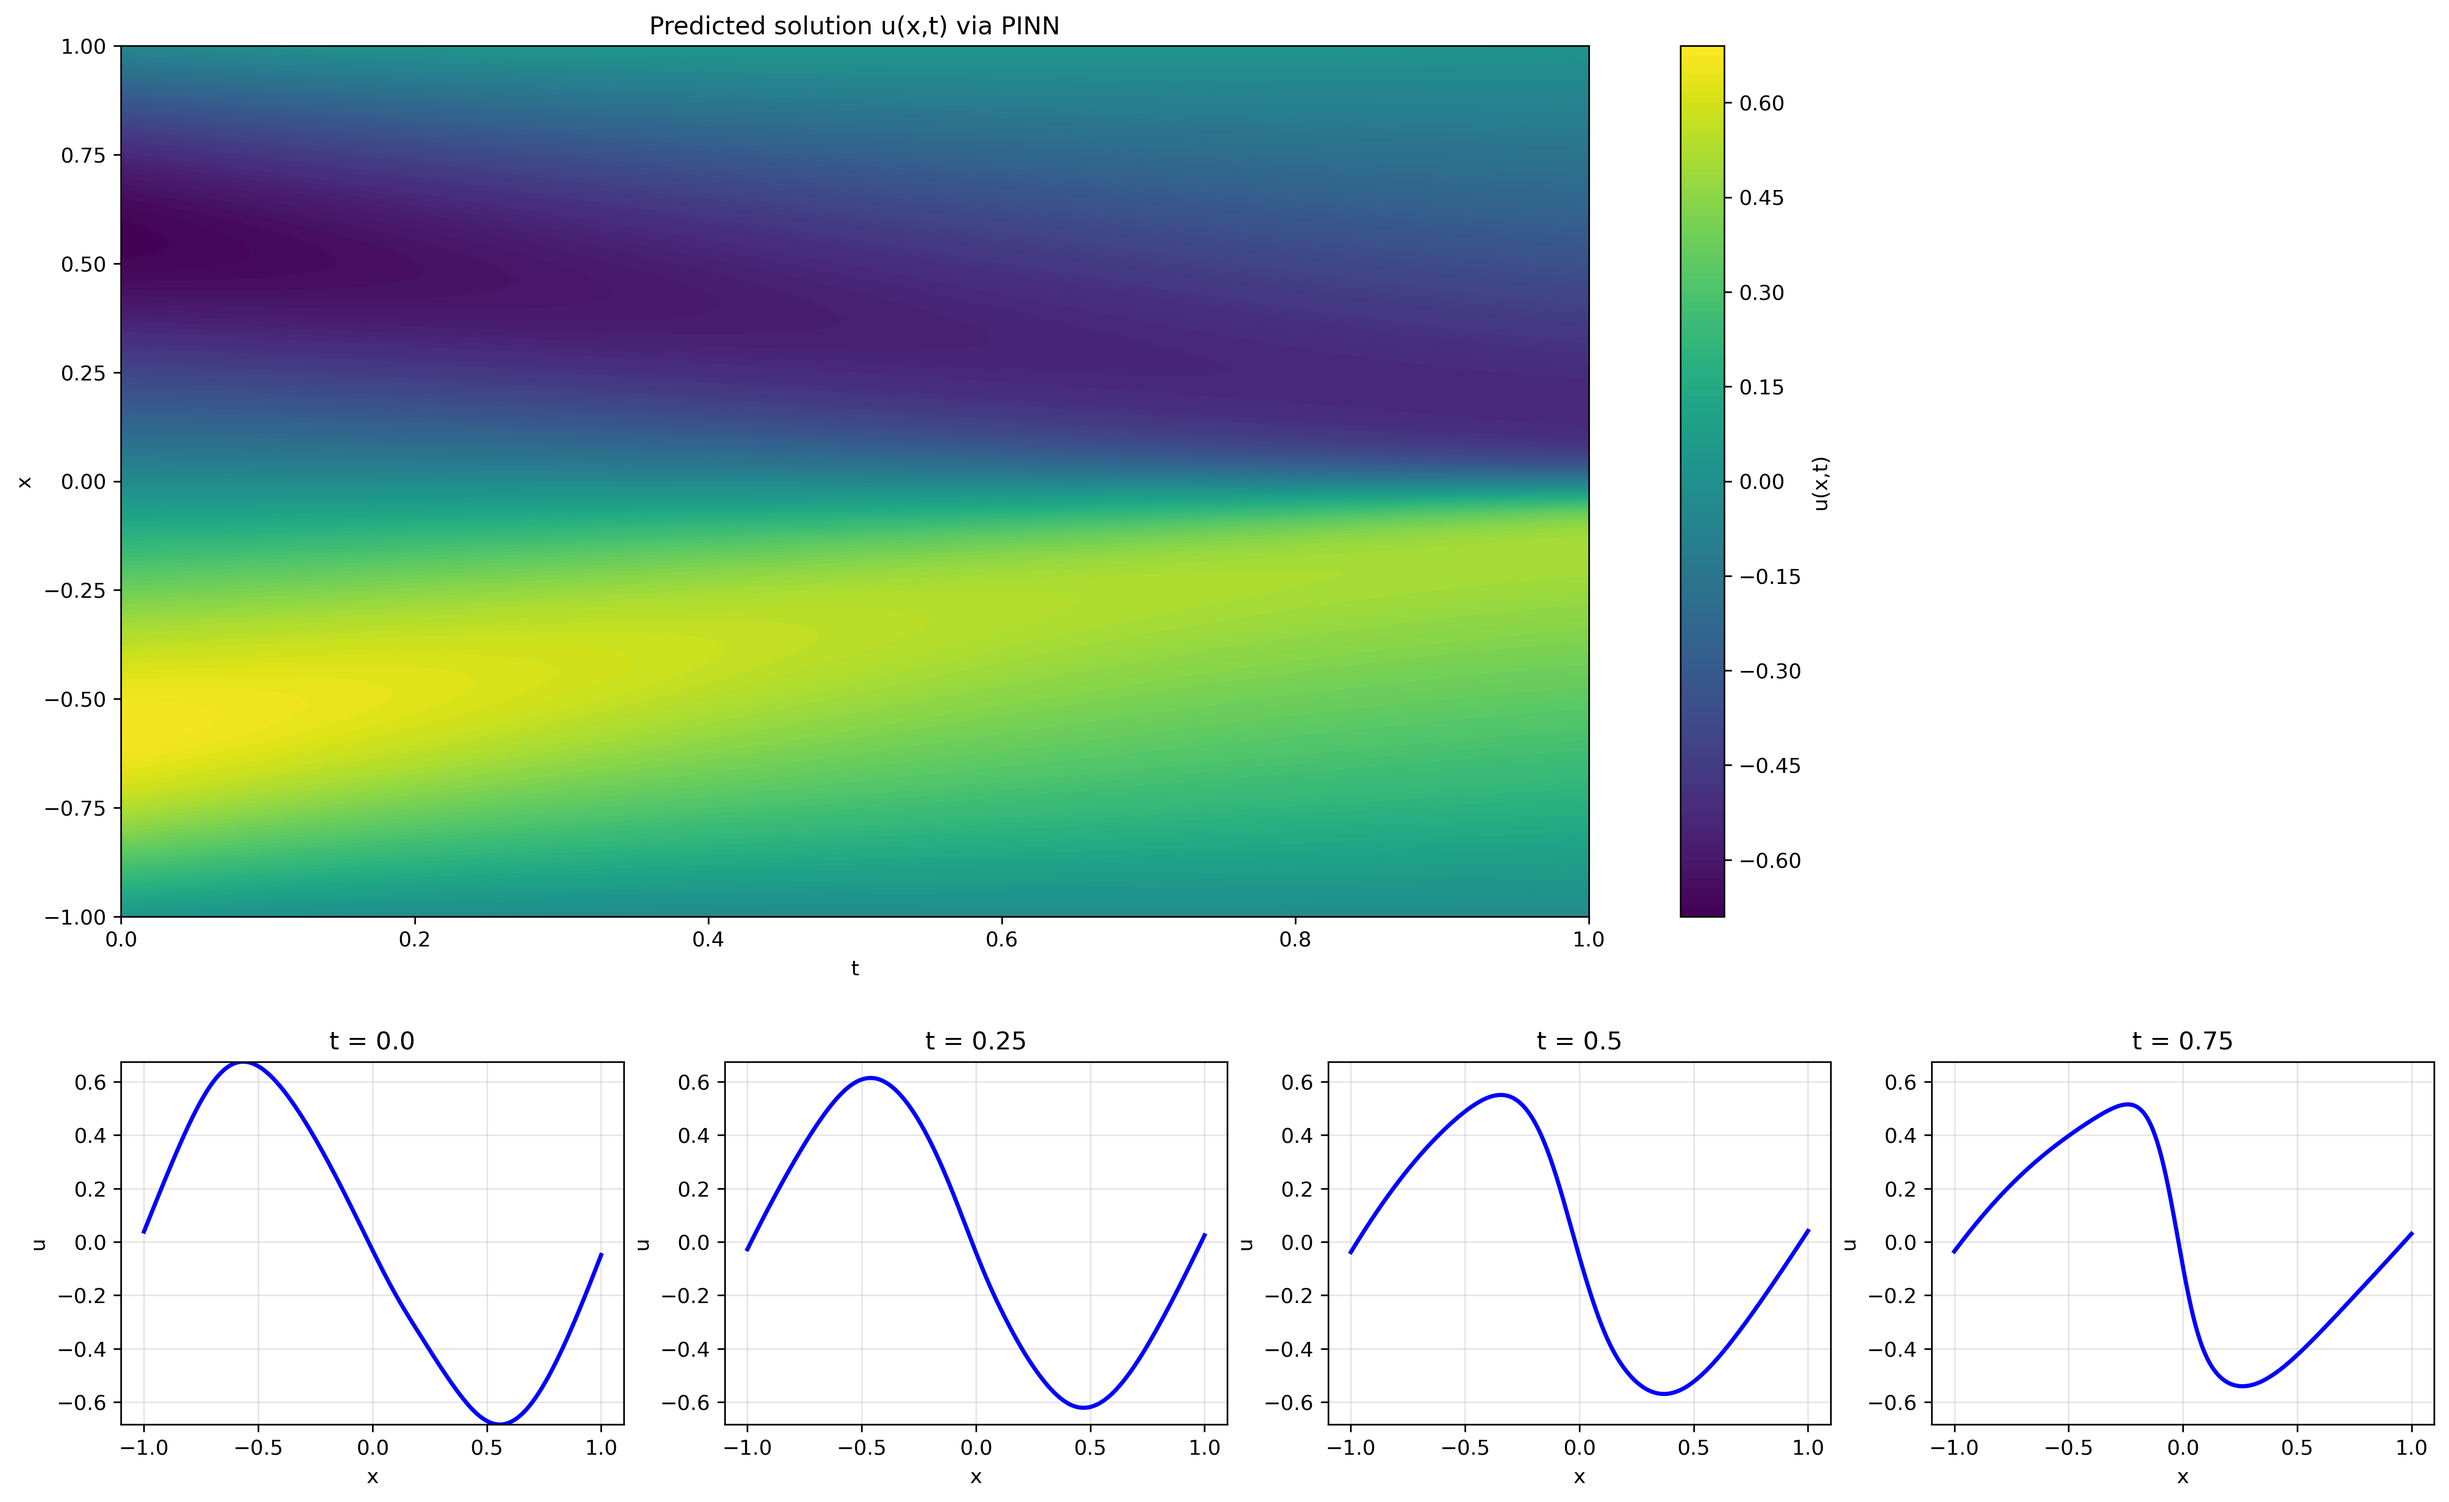
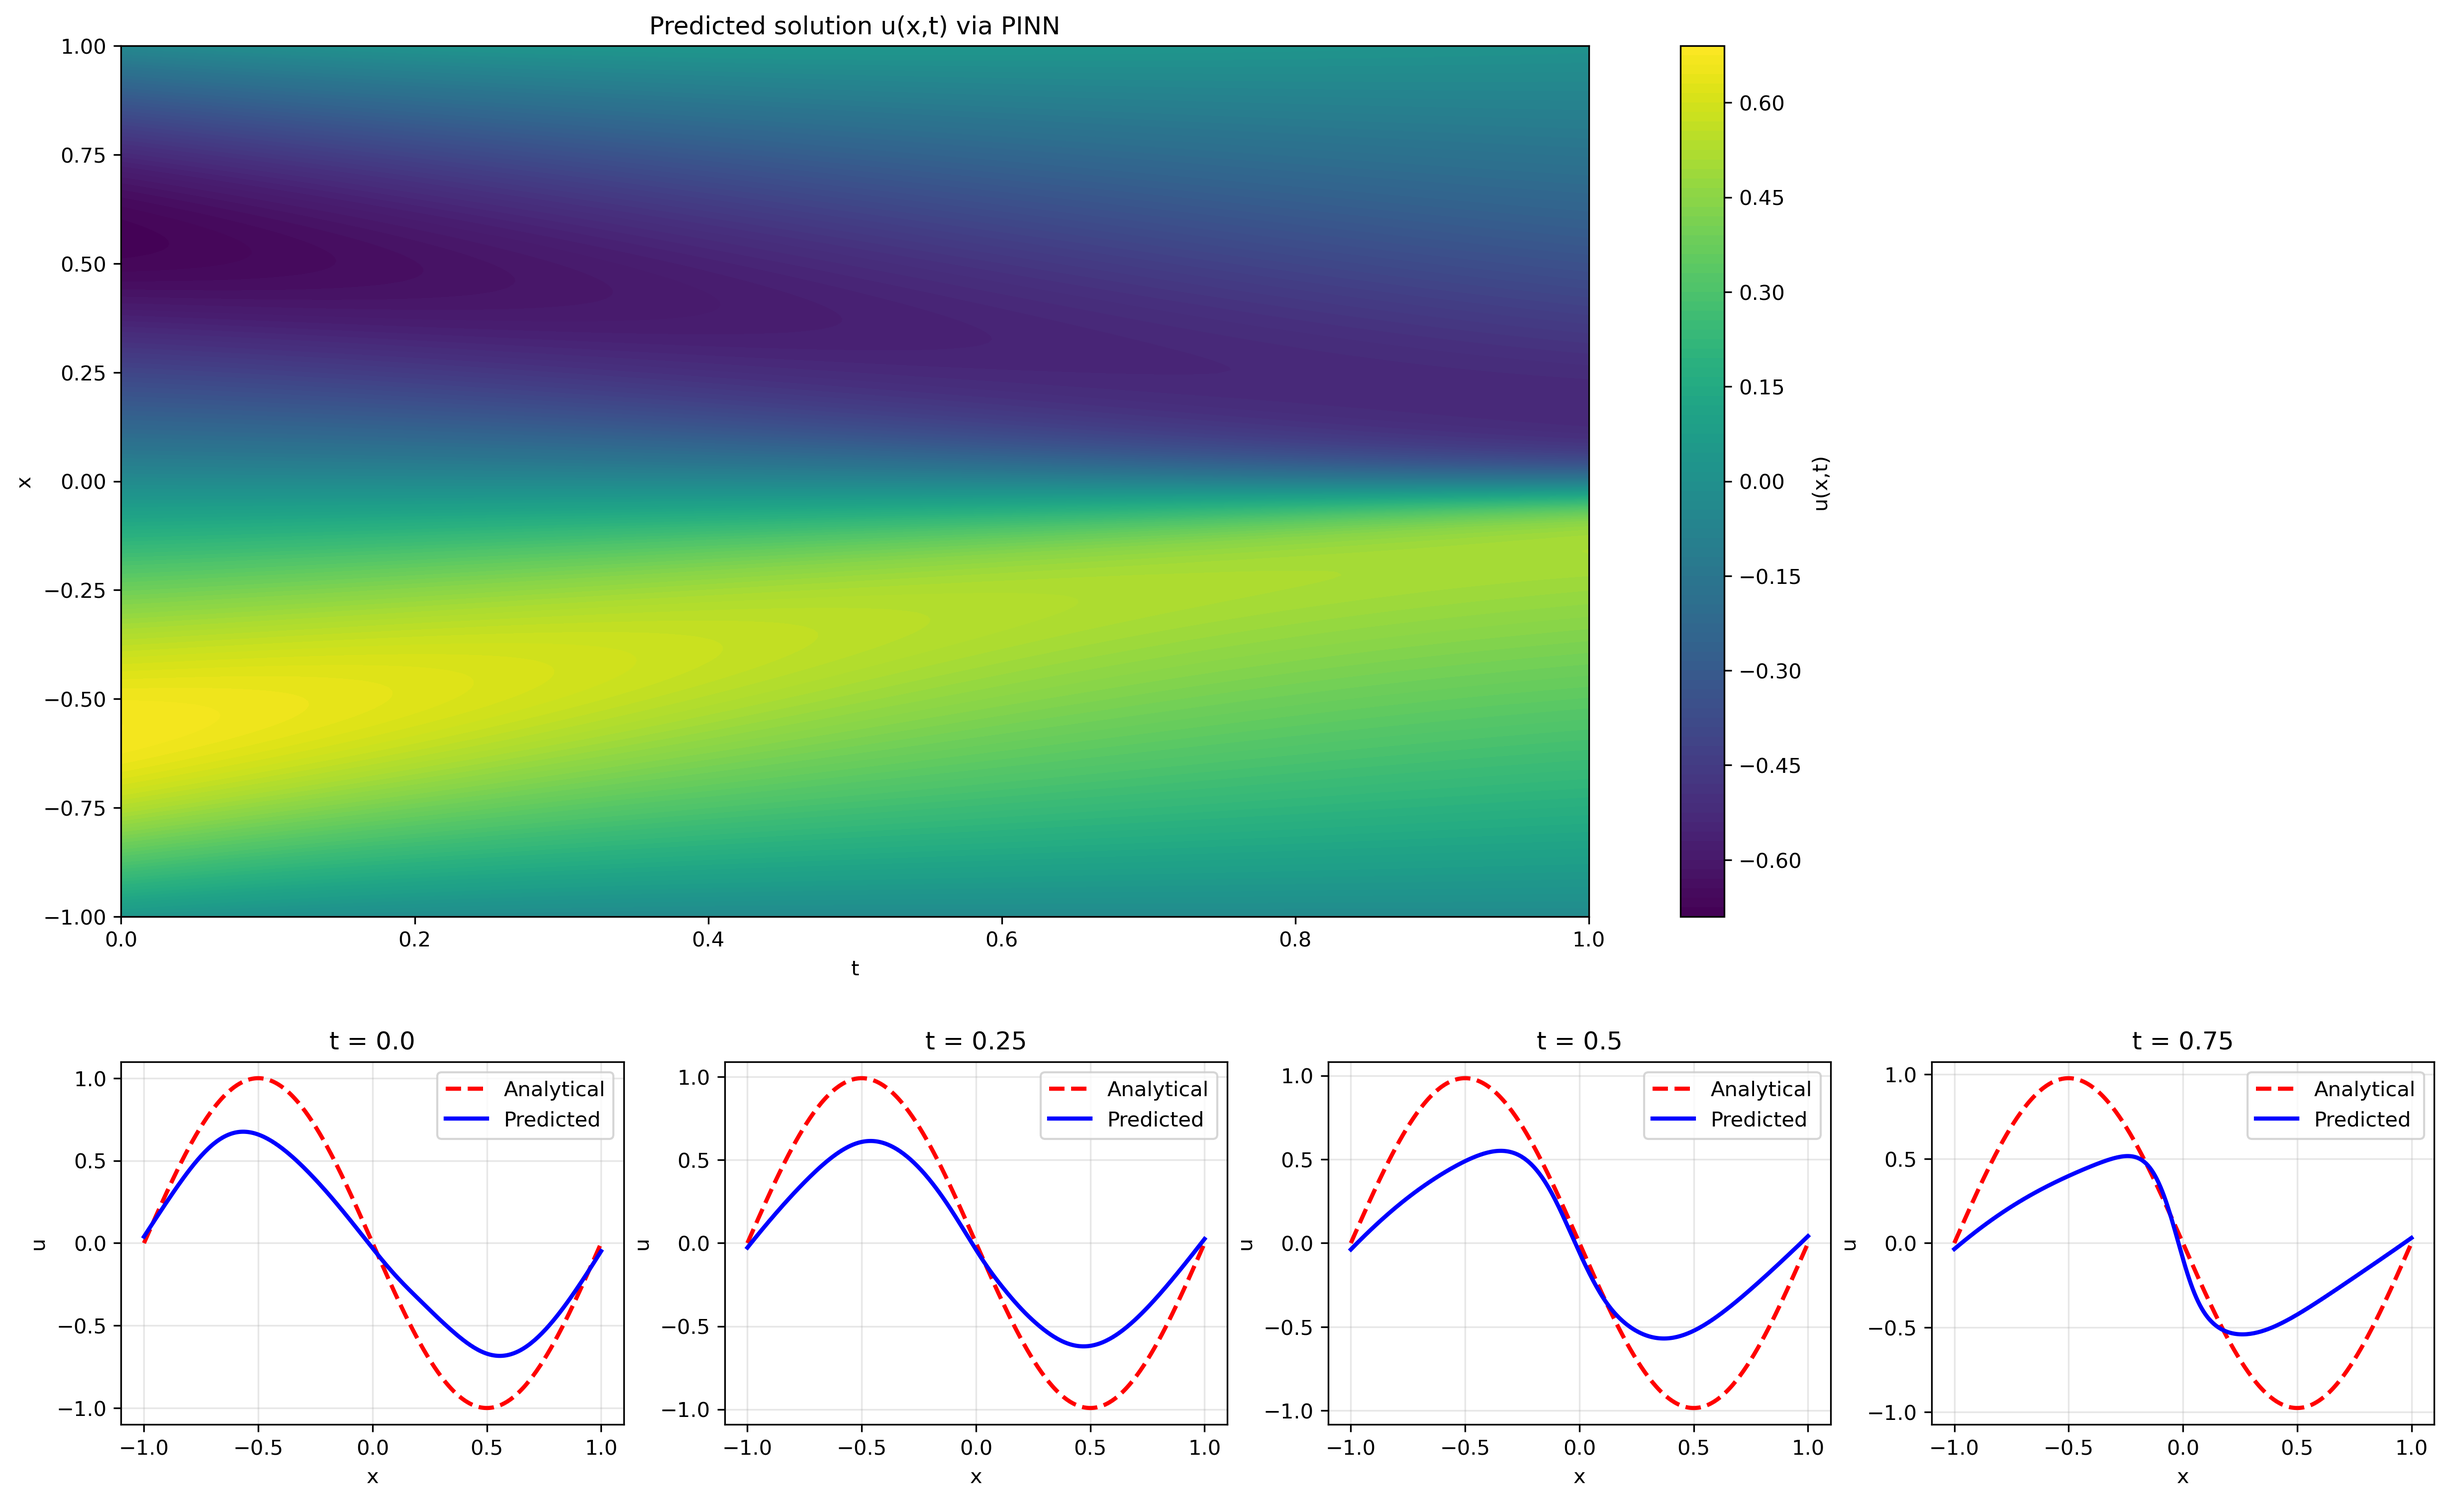
adding broken analytical solution, L2 error, plotting

diff --git a/burgers_eq_1d_template/pinn.py b/burgers_eq_1d_template/pinn.py
@@ -30,7 +30,7 @@ class PINN(nn.Module):
         self.device = torch.device("cuda" if torch.cuda.is_available() else "cpu")
         self.network.to(self.device)
         self.optimizer = torch.optim.Adam(self.network.parameters(), lr=0.001)
-        self.num_epochs = 1000
+        self.num_epochs = 5000
 
         # set up experiment parameters
         torch.set_default_dtype(torch.float32)
@@ -137,8 +137,52 @@ class PINN(nn.Module):
     def load_model(self, path="./saved_models/pinn_model.pth"):
         self.network.load_state_dict(torch.load(path))
         print(f"Model loaded from {path}")
+        
+    def analytical_solution(self, x: np.ndarray, t: np.ndarray) -> np.ndarray:
+        """
+        Analytic/reference solution u(x,t) used for error computation.
+        Here we use the linear diffusion solution corresponding to
+        the initial condition u(x,0) = -sin(pi x).
+        """
+        return -np.sin(np.pi * x) * np.exp(-self.nu * (np.pi**2) * t)
+    
+    def compute_l2_error(self, N_x: int = 256, N_t: int = 100) -> float:
+        """
+        Compute the (relative) L2 error norm between PINN prediction and
+        the analytic solution on a uniform space–time grid.
 
-    def plot_solution(self, root="./saved_plots/", name="prediction.png"):
+        Returns:
+            float: relative L2 error ||u_pred - u_ana||_2 / ||u_ana||_2
+        """
+        # Build evaluation grid
+        x = np.linspace(self.x_min, self.x_max, N_x)
+        t = np.linspace(self.t_min, self.t_max, N_t)
+        X, T = np.meshgrid(x, t)
+
+        # Prepare input for the network
+        XT = np.hstack((X.flatten()[:, None], T.flatten()[:, None]))
+        XT_tensor = torch.tensor(XT, dtype=torch.float32).to(self.device)
+
+        # PINN prediction
+        u_pred = self.predict(XT_tensor).cpu().numpy().reshape(N_t, N_x)
+
+        # Analytic solution on the same grid
+        u_ana = self.analytical_solution(X, T)
+
+        # L2 norms via discrete approximation (simple average)
+        diff_sq = (u_pred - u_ana) ** 2
+        ana_sq = u_ana ** 2
+
+        # Mean over grid then sqrt -> discrete L2; relative error
+        num = np.sqrt(np.mean(diff_sq))
+        den = np.sqrt(np.mean(ana_sq))
+
+        if den == 0.0:
+            return num  # fall back to absolute error
+
+        return num / den
+
+    def plot_solution(self, plot_analytic=True, root="./saved_plots/", name="prediction.png"):
         N_x, N_t = 256, 100
         x = np.linspace(self.x_min, self.x_max, N_x)
         t = np.linspace(self.t_min, self.t_max, N_t)
@@ -167,14 +211,18 @@ class PINN(nn.Module):
             
             # Find the closest time index
             t_idx = int(t_slice * (N_t - 1))
-            u_slice = u_pred[t_idx, :]
+            u_pred_slice = u_pred[t_idx, :]
             
-            ax_1d.plot(x, u_slice, 'b-', linewidth=2)
+            if plot_analytic:
+                u_ana_slice = self.analytical_solution(x, t_slice)
+                ax_1d.plot(x, u_ana_slice, 'r--', label='Analytical', linewidth=2)
+
+            ax_1d.plot(x, u_pred_slice, 'b-', label="Predicted", linewidth=2)
             ax_1d.set_xlabel('x')
             ax_1d.set_ylabel('u')
             ax_1d.set_title(f't = {t_slice}')
             ax_1d.grid(True, alpha=0.3)
-            ax_1d.set_ylim([u_pred.min(), u_pred.max()])
+            ax_1d.legend()
         
         plt.tight_layout()
         plt.subplots_adjust(hspace=0.4)  # Adjust vertical spacing between rows
